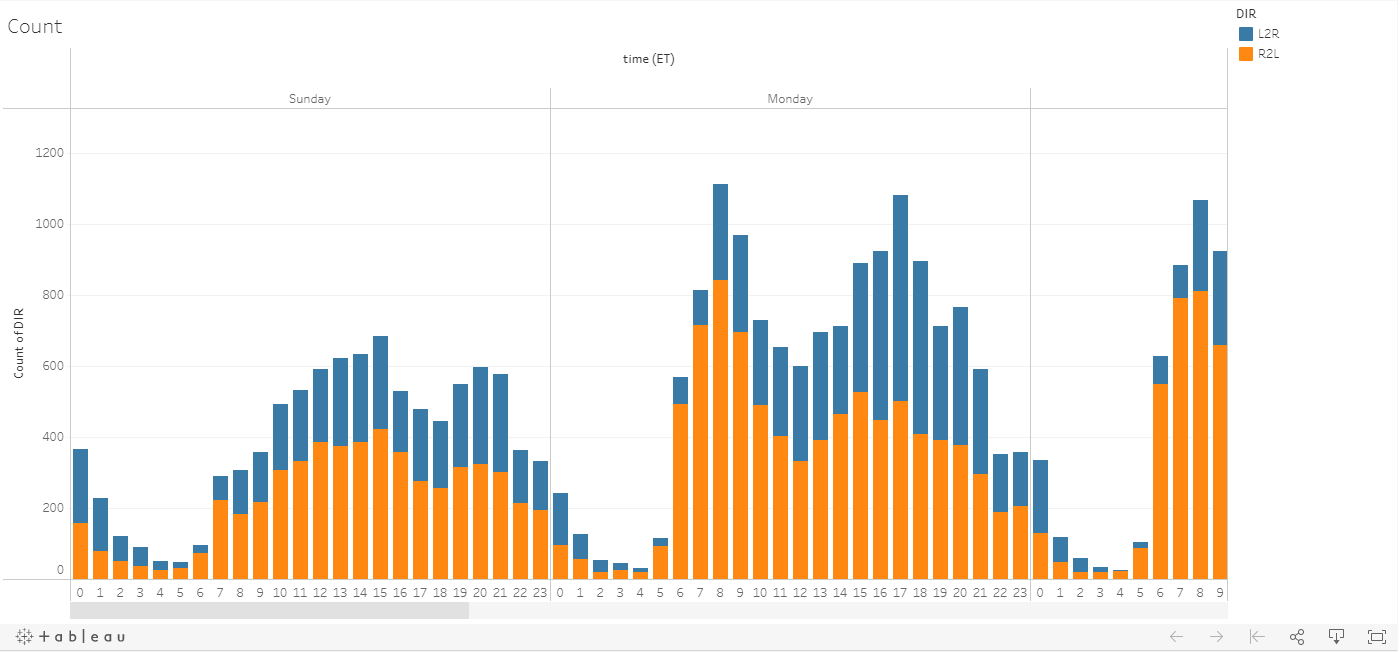
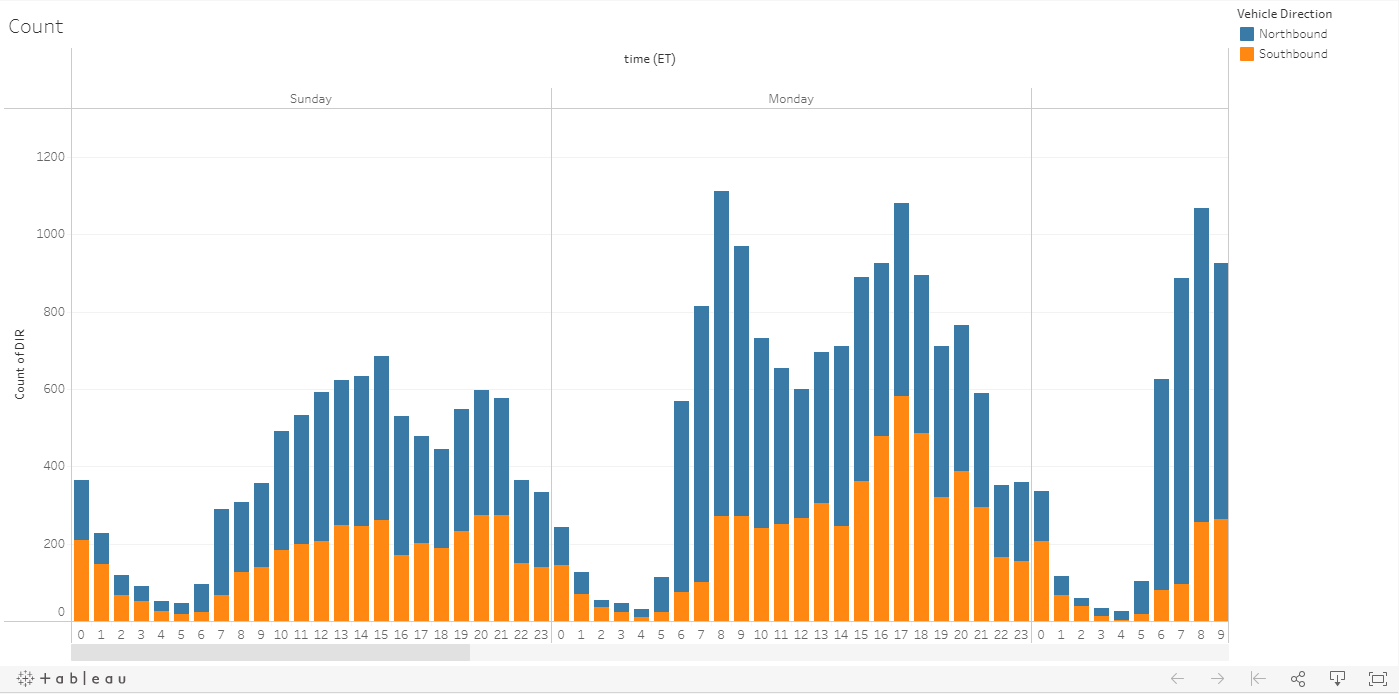
Fix gallery plots, add header.

diff --git a/_posts/2021-04-14-Cheap-vehicle-speed-camera.md b/_posts/2021-04-14-Cheap-vehicle-speed-camera.md
@@ -57,7 +57,7 @@ The calibration process currently requires the user to enable the overlay of det
 
 I continuously measured vehicle traffic along Centre Street in West Roxbury, MA, a busy arterial street that directly connects the neighborhood's business district to points North and into downtown Boston. Centre St was identified in Boston's "Safest Driver Competition" in 2019 as a problem speeding area and is on Boston's High Crash Network. Data was collected for approximately two weeks from March 28 to April 11. This section of street is lined with multi-family residences and there are many kids on my block in particular.
 
-{% include gallery id="gallery_speeds" layout='' %}}
+{% include gallery id="gallery_speeds" layout='' %}
 
 [Link to Data](https://public.tableau.com/views/VehicleSpeeds-CentreStMontclair-WestRoxburyMA/Speed?:language=en&:display_count=y&:origin=viz_share_link)
 
@@ -66,10 +66,10 @@ The data shows a periodic pattern in vehicle speed statistics, with **median spe
 > 25th to 75th percentile speeds on Centre St are well above the posted speed limit of 25 mph at all hours, 7 days a week.
 
 
-{% include gallery id="gallery_counts" layout='' %}}
+{% include gallery id="gallery_counts" layout='' %}
 
 
-[Link to Data](https://public.tableau.com/views/VehicleSpeeds-CentreStMontclair-WestRoxburyMA/Count?:language=en&:retry=yes&:display_count=y&:origin=viz_share_link)
+[Link to Data](https://public.tableau.com/views/VehicleSpeeds-CentreStMontclair-WestRoxburyMA/Count?:language=en&:display_count=y&publish=yes&:origin=viz_share_link)
 
 Vehicle counts in each direction clearly show the morning rush hour peak of **800 vehicles per hour** northbound, which levels off to ~400 per hour the rest of the day. Then there is the return peak of ~600 vehicles per hour southbound around the hours of 4-7pm. As expected, the morning rush spike is completely absent on Saturdays and Sunday has the lowest vehicle counts of the week in either direction. Keep in mind these vehicle counts are still during COVID, while everyone is writing about the permanence of remote work. It sure seems like gridlock is back in Boston (the former ["worst traffic congestion" winner of 2019 & 2020](https://www.bostonglobe.com/2020/03/09/metro/boston-ranks-worst-us-rush-hour-traffic-second-year-row/)).
 
